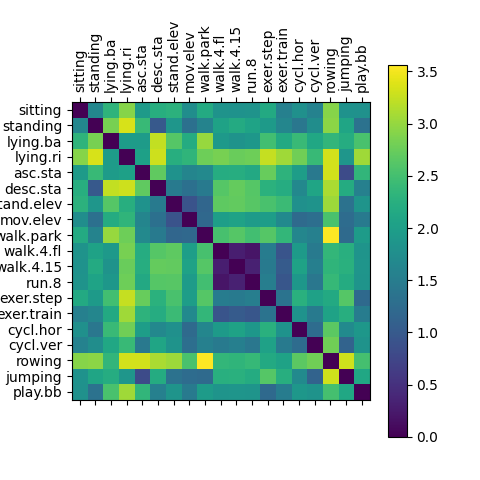
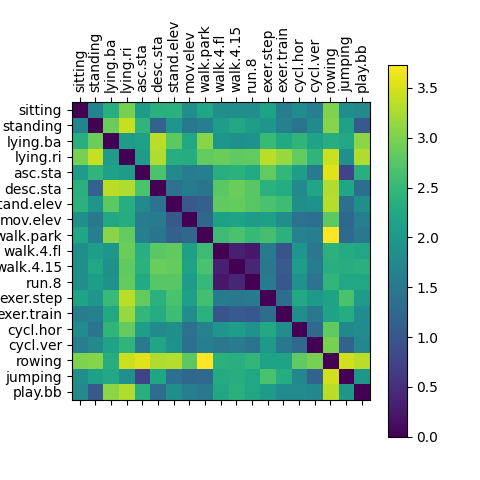
lab04: accuracy 0.916 test

diff --git a/LAB04/data_visualization.py b/LAB04/data_visualization.py
@@ -124,12 +124,12 @@ slices=list(range(1,Nslices+1))# first Nslices to plot
 fs=25 # Hz, sampling frequency
 samplesPerSlice=fs*5 # samples in each slice
 
-cutoff = 0.8
+cutoff = 1.5
 fs = 25
 order = 1
 max_accuracy_te = max_accuracy_tr = 0
 cutoff_range = np.arange(0.2, 1.5, 0.1)
-
+sampling = 75
 
 for nTrainSlices in range(13, 14):
     for n_smallest in range(19, 20):
@@ -170,8 +170,9 @@ for nTrainSlices in range(13, 14):
             activities = [i]
             # Training Set
             x_tr=myFn.generateDF(filedir,sensNamesSub,sensors, patients,activities,slicesTrain)
+            x_tr = myFn.interpolation(x_tr)
             x_tr = myFn.butter_lowpass_filter(x_tr, cutoff, fs, order)
-            x_tr = myFn.averageSampling(x_tr, 25)
+            x_tr = myFn.averageSampling(x_tr, sampling)
             y_tr[iter_tr:len(x_tr)+iter_tr] = i - 1
             x_tr=x_tr.drop(columns=['activity'])
             x_tr = x_tr.values
@@ -180,8 +181,9 @@ for nTrainSlices in range(13, 14):
             # Test set
             x_te=myFn.generateDF(filedir,sensNamesSub,sensors, patients,activities,slicesTest)
             x_te=x_te.drop(columns=['activity'])
+            #x_te = myFn.interpolation(x_te)
             x_te = myFn.butter_lowpass_filter(x_te, cutoff, fs, order)
-            x_te = myFn.averageSampling(x_te, 25)
+            x_te = myFn.averageSampling(x_te, sampling)
             y_te[iter_te:len(x_te)+iter_te] = i - 1
             x_te = x_te.values
             X_test[iter_te:len(x_te)+iter_te, :] = x_te
@@ -201,9 +203,9 @@ for nTrainSlices in range(13, 14):
             activities=[i]
             x=myFn.generateDF(filedir,sensNamesSub,sensors, patients,activities,slicesTrain)
             x=x.drop(columns=['activity'])
-            #myFn.interpolation(x)
+            x = myFn.interpolation(x)
             x = myFn.butter_lowpass_filter(x, cutoff, fs, order)   #0.8, 25, 2
-            x = myFn.averageSampling(x, 25)
+            x = myFn.averageSampling(x, sampling)
             centroids[i-1,:]=x.mean().values
             stdpoints[i-1]=np.sqrt(x.var().values)
 

diff --git a/LAB04/sub/functions.py b/LAB04/sub/functions.py
@@ -136,11 +136,13 @@ def normalize(x):
     x = (x - x.mean())/x.std()
     return x
 
-""" def interpolation(df):
-    interpDF =  np.zeros([2*len(df), len(df.columns)])
+def interpolation(df):
+    interpDF =  np.zeros([int(3*len(df)), len(df.columns)])
     x = np.arange(len(df))
-    x_new = np.arange(0, len(df)-0.6, 0.5)
+    x_new = np.linspace(0, len(df)-1, num=int(len(df)*3))
     for i in range(len(df.columns)):
         f = interp1d(x, df.iloc[:, i])
         y = f(x_new)
-        interpDF[:, i] = f(x_new) """
+        interpDF[:, i] = y
+    interpDF = pd.DataFrame(interpDF, columns=df.columns)
+    return interpDF
